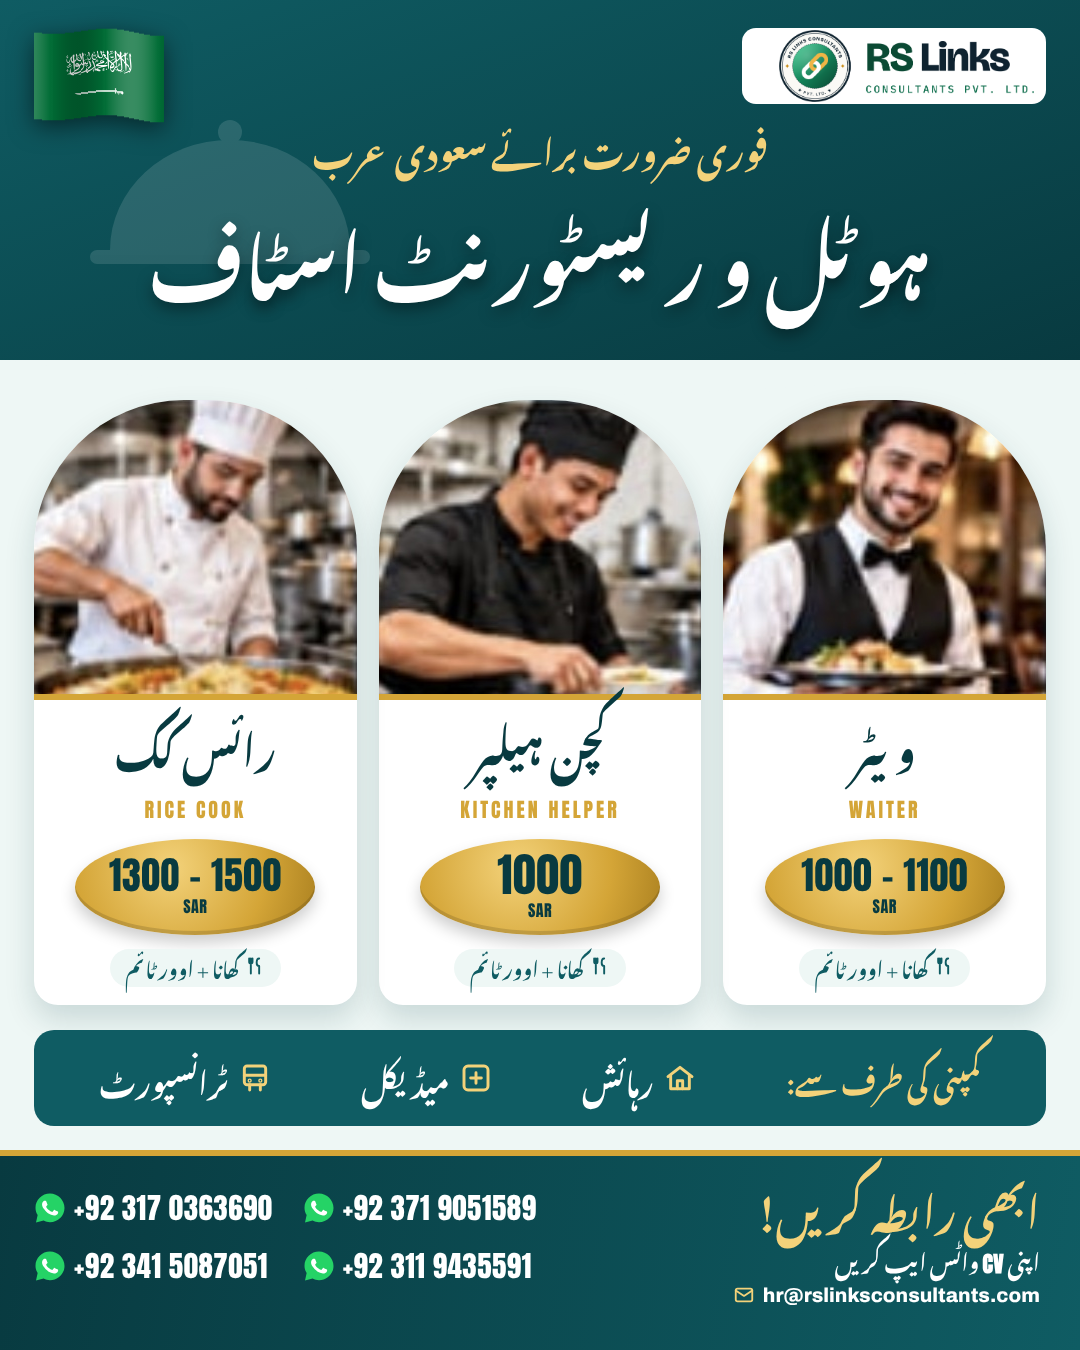
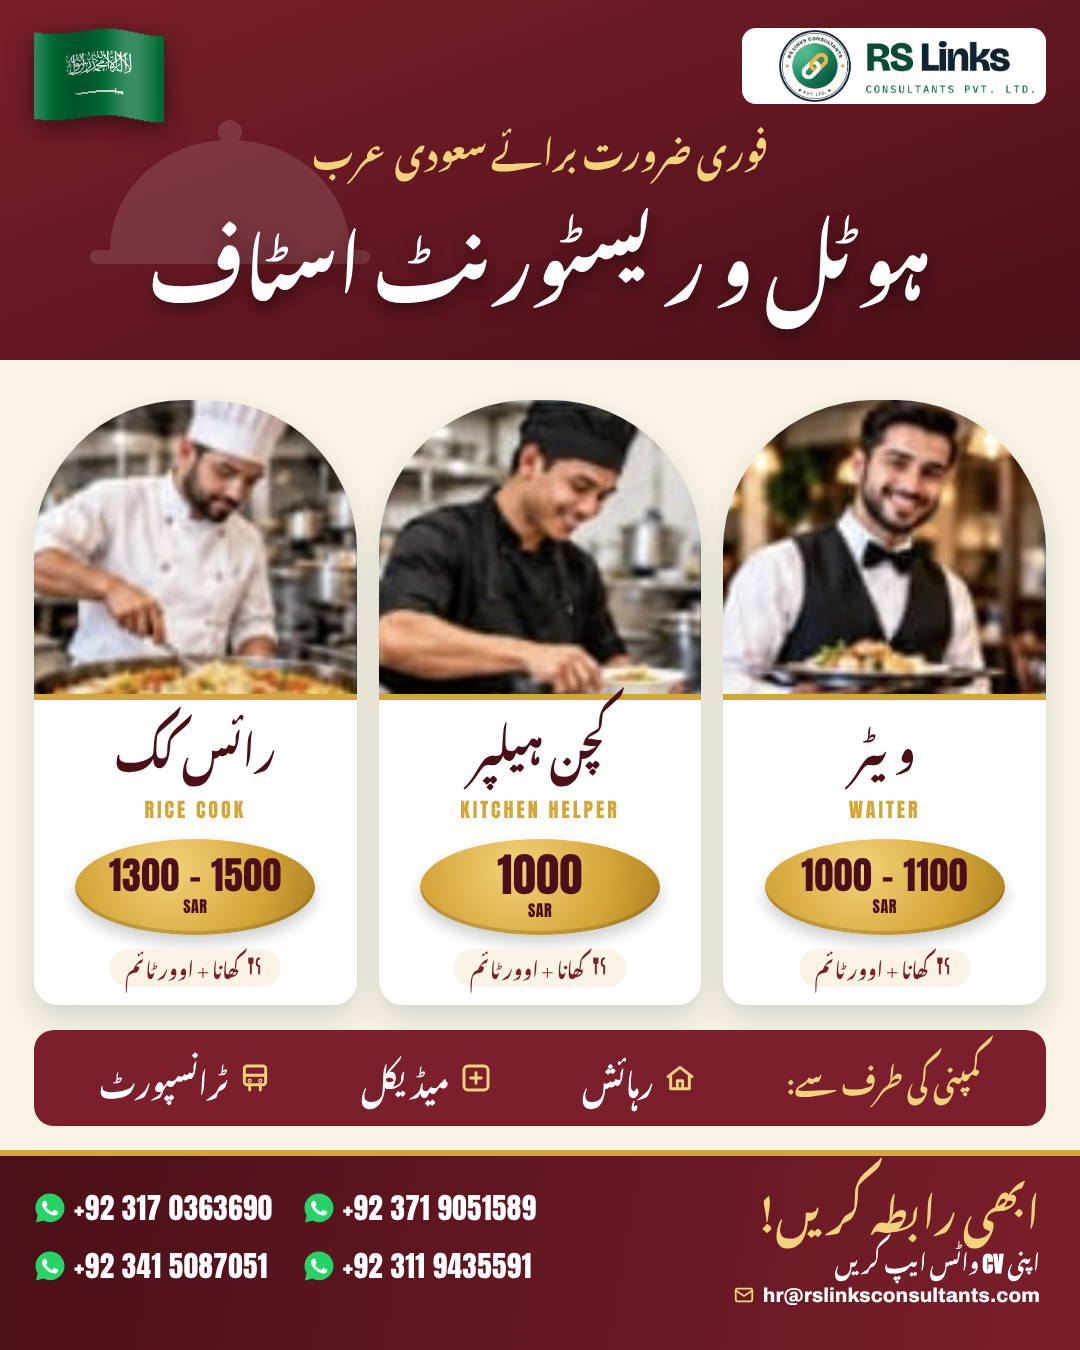
Saudi hospitality Urdu: warm maroon/gold/cream palette instead of teal
Claude-Session: https://claude.ai/code/session_01YJ5ofgU8QCiWTsYR9pvXG4

diff --git a/src/saudi_hospitality_ur.py b/src/saudi_hospitality_ur.py
@@ -4,7 +4,7 @@ Design: "serving tray" — white/mint page, deep teal header with a cloche (dome
 position columns (photo top, Urdu title, salary on a gold plate), teal ribbon perks, white CTA."""
 from common import PHONES, PHOTOS, flag, font_css, icon, logo_img, render, whatsapp_icon
 
-TEAL, TEAL2, GOLD, GOLD2, MINT, INK = "#0F5C63", "#083A40", "#D4A537", "#F3D27A", "#EEF7F5", "#17262A"
+TEAL, TEAL2, GOLD, GOLD2, MINT, INK = "#7A1F2B", "#4A0F18", "#D4A537", "#F3D27A", "#FBF4E6", "#2A1A14"   # warm maroon (user: teal made photos look blue)
 EMAIL = "hr@rslinksconsultants.com"
 N = lambda v: f"<span class='num'>{v}</span>"
 T = lambda s, px, c, extra="", lh=1.75: f"<div class='t' style='font-size:{px}px;color:{c};line-height:{lh};{extra}'>{s}</div>"
